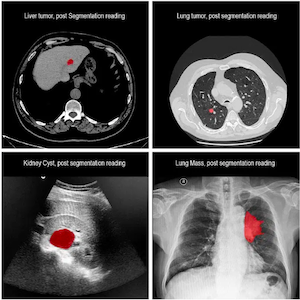
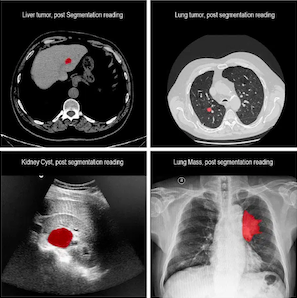
2023 lec14 summary01 commit5

diff --git a/2023/lec14/summary01/README.md b/2023/lec14/summary01/README.md
@@ -8,107 +8,127 @@
 
 > [An Image is Worth 16x16 Words: Transformers for Image Recognition at Scale 논문(2020)](https://arxiv.org/abs/2010.11929)
 
-**Vision Transformer**(ViT)는 2D image를 패치 단위로 나눈 token을 입력으로 사용하는 transformer이다.
+**Vision Transformer**(ViT)는 2D image를 패치 단위로 나눈 token을 입력으로 한다.
+
+![ViT](images/ViT_process.gif)
+
+- **tokenization**
 
 | 2D Image | | Tokenization |  
 | --- | :---: | --- | 
 | ![input patch](https://github.com/erectbranch/MIT-Efficient-AI/blob/master/2023/lec14/summary01/images/image_patches_1.png) | $\rightarrow$ | ![image tokens](https://github.com/erectbranch/MIT-Efficient-AI/blob/master/2023/lec14/summary01/images/image_patches_2.png) |
 | size: 96x96<br/>patch size: 32x32 | | \#tokens: 3x3=9<br/>dim of each token: 3x32x32=3,072 |
 
-다음은 ViT에서 이미지 입력을 분류하는 과정을 보여준다.
+- **linear projection**: 주로 convolution 활용 (서로 다른 패치에 대해 하나의 동일한 convolution) 
 
-![ViT](images/ViT_process.gif)
-
-이때 linear projection에서 convolution을 주로 활용한다. (서로 다른 패치에 대해 하나의 동일한 convolution 적용)
+| ![linear projection 1](https://github.com/erectbranch/MIT-Efficient-AI/blob/master/2023/lec14/summary01/images/linear_projection_1.png)| ![linear projection 2](https://github.com/erectbranch/MIT-Efficient-AI/blob/master/2023/lec14/summary01/images/linear_projection_2.png) |
+| --- | --- |
+| input dim = 3,072<br/>output dim(hidden size of ViT) = 768 | \#Parameters: 3,072x768 = 2.36M |
 
 > 현재 예시: "32x32 Filter, stride 32, padding 0, in_channel=3, output_channel = 768" convolution 레이어를 사용한다.
 
-| | |
-| --- | --- | 
-| ![linear projection 1](https://github.com/erectbranch/MIT-Efficient-AI/blob/master/2023/lec14/summary01/images/linear_projection_1.png)| ![linear projection 2](https://github.com/erectbranch/MIT-Efficient-AI/blob/master/2023/lec14/summary01/images/linear_projection_2.png) |
-| input dim = 3,072<br/>output dim(hidden size of ViT) = 768 | \#Parameters: 3,072x768 = 2.36M |
 
 ---
 
 ### 14.1.1 Model Variants
 
-논문에서는 세 가지 크기의 모델을 제안하였다.
-
-- Patch size: 2, 4, 8, 16, 32
+논문에서는 세 가지 ViT 모델군을 제안하였다. (Patch size: 2, 4, 8, 16, 32)
 
 ![ViT variants](images/vit_variants.png)
 
-> ViT-L/16 = ViT-Large, 16x16 패치 사용
+> (notation) ViT-L/16 = ViT-Large, 16x16 패치 사용
 
-다음은 ResNet과 ImageNet 정확도를 비교한 도표다. 많은 데이터를 사전학습한 ViT 모델일수록 (ResNet 대비) 우수한 정확도를 달성하였다.
+다음은 ImageNet 정확도를 비교한 도표다, 많은 양의 데이터(JFT-300M)로 사전학습한 경우, ResNet보다 우수한 정확도를 달성하였다.
 
 ![vit image classification results](images/vit_image_classification_result.png)
 
-> ViT-b: ViT-Base에서 hidden dimension을 절반으로 줄인 모델
+> (notation) ViT-b: ViT-Base에서 hidden dimension을 절반으로 줄인 모델
 
 ---
 
-## 14.2 High-Resolution Dense Prediction
+## 14.2 Challenge: High-Resolution Dense Prediction
 
-> **dense prediction**: 이미지 내 각 픽셀이 어느 클래스에 속하는지 예측
+> **dense prediction**: 이미지 내 각 픽셀이 어느 클래스인지 예측
 
-다음은 자율주행 task에서 저해상도(좌측), 고해상도(우측) 입력을 비교한 예시다.
+Computer Vision에서는 고해상도 입력이 필요한 다양한 도메인이 존재한다. (저해상도: 작은 물체와 같은 세부 정보를 인식하기 어렵다.)
 
-![autonomous driving](images/autonomous_driving.png)
-
-(고해상도 이미지에 비해) 저해상도 이미지는 작은 물체를 비롯한 디테일을 인식하기 어렵다.
-
----
-
-### 14.2.1 Applications: Semantic Segmentation, Super-Resolution
-
-다음은 high-resolution dense prediction의 대표적인 응용 예시다. 
+| low-res | high-res |
+| :---: | :---: |
+| ![autonomous driving low-res](images/autonomous_driving_1.png) | ![autonomous driving high-res](images/autonomous_driving_2.png) |
 
 | Medical Image Segmentation | Super-Resolution (SR) |
 | :---: | :---: |
 | ![medical image segmentation](images/medical_image_segmentation.png) | ![super-resolution](images/super-resolution.png) |
 
-하지만, ViT는 고해상도에서 연산량이 폭발적으로 증가하는 문제를 갖는다.
-
-- 해상도 증가 시, 연산량은 quadratic하게 증가한다.
+하지만, ViT는 고해상도에서 연산량이 폭발적으로 증가한다. (해상도 증가 $\rightarrow$ 연산량 **quadratic** 증가)
 
 ![res-macs](images/res_macs.png)
 
 ---
 
-### 14.2.2 Applications: Segment Anything
+### 14.2.1 Applications: Segment Anything
 
 > [Segment Anything 논문(2023)](https://arxiv.org/abs/2304.02643)
 
-**Segment Anything**은 Meta에서 공개한 image segmentation 모델이다. (**task**, **model**, **dataset**)
+> [SAM 2: Segment Anything in Images and Videos 논문(2024)](https://arxiv.org/abs/2408.00714): streaming memory 메커니즘을 도입하여 프레임 단위로 동영상 처리
 
-![segment anything](images/segment_anything.gif)
+> [SAM 3: Segment Anything with Concepts 논문(2025)](https://arxiv.org/abs/2511.16719): 특정 개념(concept) 프롬프트 전달 시, 관련 객체를 한번에 검출하고 ID 부여
 
-(zero-shot) image in-painting, object tracking, 3D generation 등 다양한 작업에서 우수한 성능을 달성하였다.
+**Segment Anything**은 이미지 인코더로 ViT를 채택한 image segmentation(이미지 분할) 모델이다. 
 
-> *SA-1B* dataset: 11M개 high-res image, 1B개 이상의 segmentation mask로 구성
+| Inference | Example |
+| :---: | :---: | 
+| ![segment anything](images/sam_resize.gif) | ![segment anything example](images/sam_prediction_cut.gif)
+
+> SAM 2: **streaming memory** 메커니즘을 도입하여, 프레임 단위로 동영상을 처리할 수 있다. (SA-V 데이터셋 학습, Hiera 이미지 인코더 활용)
+
+> 자체적으로 구성한 **SA-1B** 데이터셋으로 학습: 11M high-res image, 1B 개 이상의 segmentation mask
+>
+> ![SA-1B](images/SA-1B.png)
 
 ---
 
-#### 14.2.2.1 Segment Anything Model (SAM)
+### 14.2.1.1 SAM Architecture
 
-**Segment Anything Model**은 크게 세 가지 요소로 구성된다.
+> [On Efficient Variants of Segment Anything Model: A Survey 논문(2024)](https://arxiv.org/abs/2410.04960)
 
-**(1) image encoder**: 고해상도 입력에 최적화된 *MAE*(Masked Autoencoder) pre-trained ViT 활용
+> [Avishek Biswas, Segment Anything 2: What Is the Secret Sauce? (A Deep Learner’s Guide)](https://medium.com/data-science/segment-anything-2-what-is-the-secret-sauce-a-deep-learners-guide-1c43dd07a6f8)
 
-**(2) prompt encoder**: 두 종류의 prompt를 임베딩
+백본은 크게 3가지 요소로 구성되며, 지원하는 다양한 타입의 프롬프트(e.g., points, boxes, masks, text)에 따라서 이미지를 분할한다.
 
-- **sparse**(points, boxes, text)
+- **Image Encoder**: MAE(Masked Autoencoder) pre-trained **ViT**
 
-- **dense**(mask): convolution 활용
+- **Prompt Encoder**: **sparse**(points, boxes, text), **dense**(masks) 프롬프트 임베딩
 
-**(3) mask decoder**: 이미지 및 프롬프트 임베딩을 입력으로, segmentation mask 예측
+- **Mask Decoder**: 임베딩(image, prompt)에서 segmentation mask 예측
 
-![segment anything prediction](images/segment_anything_prediction.png)
+| Component | Description |
+| :---: | :---: |
+| **SAM 1** | ![SAM 1](images/sam1.png) |
+| **Mask Decoder**| ![mask decoder](images/sam_mask_decoder.png) |
+
+이때 Mask Decoder는 멀티모달 feature fusion을 위한 **cross-attention** 메커니즘을 사용한다. (segmentation mask, IoU 계산에서 활용)
+
+> SAM 2 Mask Decoder 추가 계산: **occlusion score**(프레임 내 query 객체 존재 여부), **object pointer**(mask token을 MLP로 벡터화)
+
+> **Notes**: SAM 2 Architecture
+>
+> - **Memory Encoder**: 출력 마스크를 Bank에 저장 (conv downsampling $\rightarrow$ 이미지 인코더 임베딩과 합산하여 저장)
+>
+> - **Memory Bank**: (1) 최근 $N$ 개 출력 마스크, (2) $M$ 개 프롬프트 임베딩, (3) object pointer 배열 저장
+>
+> - **Memory Attention**: 이미지 인코더 임베딩에 self-attention $\rightarrow$ 과거 메모리 뱅크 정보와 cross-attention
+>
+> ![SAM 2](images/sam2.png)
 
 ---
 
 ## 14.3 Efficient Attention
+
+SAM 사례에서 ViT(image encoder)는 파라미터 크기의 대부분을 차지(90% 이상)하며, 고해상도 입력에서 매우 큰 연산량을 요구한다. 
+
+- 따라서, 보다 경량화한 아키텍처나 효율적인 attention 메커니즘이 필요하다.
+
 
 ---
 
@@ -116,7 +136,7 @@
 
 > [Swin Transformer: Hierarchical Vision Transformer using Shifted Windows 논문(2021)](https://arxiv.org/abs/2103.14030)
 
-**Swin Transformer**은 local window 단위의 **window attention**을 설계하여 연산량을 최소화하였다. (연산 복잡도: linear하게 증가)
+**Swin Transformer**은 연산량을 최소화할 수 있는, local window 단위의 **window attention**을 제안하였다. (연산 복잡도: linear하게 증가)
 
 | Original Attention | Window Attention |
 | :---: | :---: |
@@ -141,15 +161,11 @@
 
 > [FlatFormer: Flattened Window Attention for Efficient Point Cloud Transformer 논문(2023)](https://arxiv.org/abs/2301.08739)
 
-3D Point Cloud 데이터는 일반적으로 99% 수준의 희소도를 가진다.
+**FlatFormer**는 희소도를 활용한 **Flattened Window Attention**(FWA) 설계를 제안하였다.
 
-![2d image vs 3d point cloud](images/2d_image_vs_3d_point_cloud.png)
+- **(1)** padding이 필요한 동일한 윈도우(Equal-Window) 대신, 동일한 크기(**Equal-Size**)로 그룹
 
-**FlatFormer**는 희소도를 활용한 가속을 위한 **Flattened Window Attention**(FWA) 설계를 제안하였다.
-
-**(1)** padding이 필요한 동일한 윈도우(Equal-Window) 대신, 동일한 크기(**Equal-Size**)로 그룹
-
-**(2)** 그룹별 self-attention(여러 axis로 수행) 및 shifted window attention 적용
+- **(2)** 그룹별 self-attention(여러 axis로 수행) 및 shifted window attention 적용
 
 || Equal-Window | Equal-Size |
 | :---: | :---: | :---: |
@@ -161,17 +177,19 @@
 
 ![FlatFormer FPS](images/FlatFormer_FPS.png)
 
+> **Notes**: 3D Point Cloud 데이터는 일반적으로 99% 수준의 희소도를 가진다.
+>
+> ![2d image vs 3d point cloud](images/2d_image_vs_3d_point_cloud.png)
+
 ---
 
 ## 14.4 EfficientViT: Linear Attention
 
 > [EfficientViT: Multi-Scale Linear Attention for High-Resolution Dense Prediction 논문(2022)](https://arxiv.org/abs/2205.14756)
 
-**EfficientViT**은 ReLU 기반의 **linear attention**을 도입하여 similarity 계산을 단순화한다. (수식의 오른쪽)
+**EfficientViT**은 ReLU 기반 **linear attention**으로 similarity 계산을 단순화한다. (연산 비용: $O(n)$ 으로 감소)
 
 $$ \mathrm{Sim}(Q,K) = \exp\left({ {QK^T} \over {\sqrt{d} } }\right) \rightarrow \mathrm{Sim}(Q,K) =  \mathrm{ReLU}(Q)\mathrm{ReLU}(K)^T $$
-
-연산 비용을 $O(n)$ 으로 줄일 수 있다.
 
 <table>
 <tr>